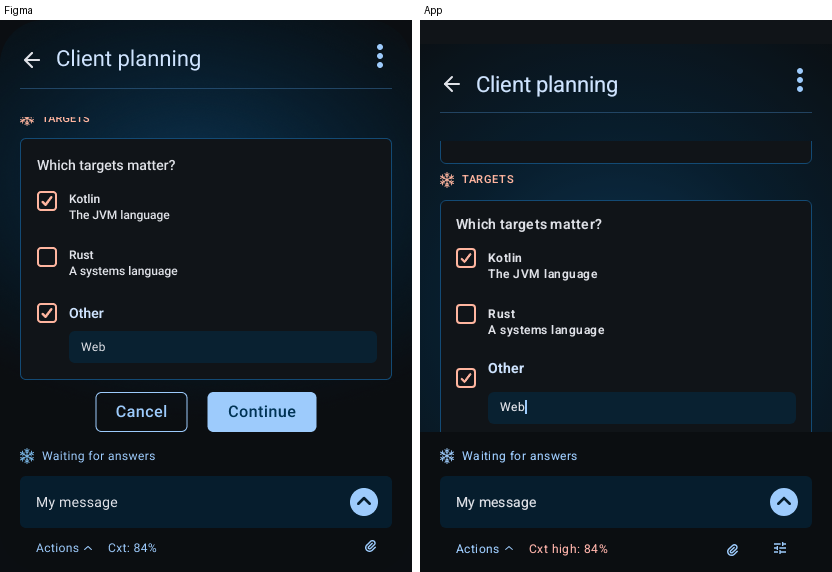
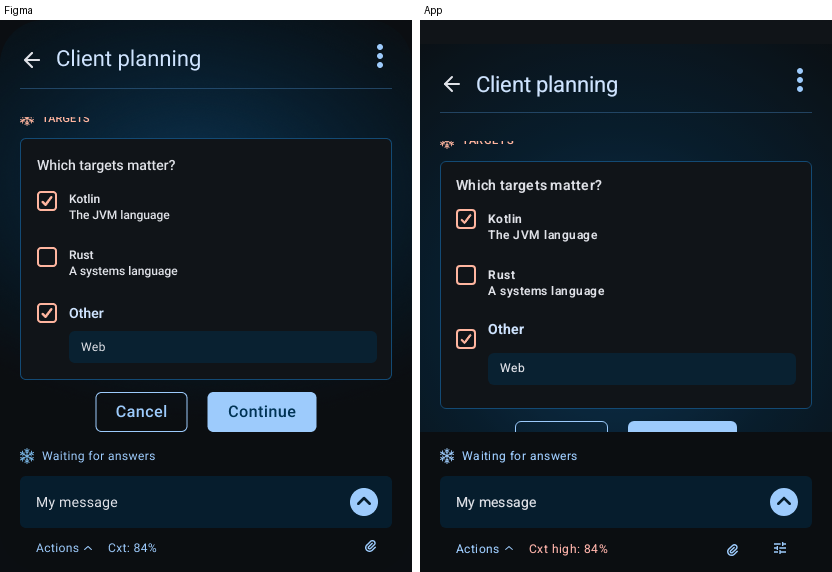
test(design): route the compact title and list waiting marks, re-run prompt captures (#1433)

Changed region(s): [[0.5312, 0.2378, 0.9688, 0.7727]]

diff --git a/app/src/androidTest/assets/design-1220/prompts/index.md b/app/src/androidTest/assets/design-1220/prompts/index.md
@@ -9,8 +9,8 @@
 - **Capture:** `PromptsDesignCaptureTest` on the full `pixel8Api35` image (API 35) with
   `requireRealSystemBars=true`, density 1.0, fixed dark theme, real 24 px status and navigation bars. Each `.txt`
   records the measured values.
-- **Result:** `prompts-results.xml`, the whole class in one run: 6 executed, 0 failures. Every capture here
-  comes from that run.
+- **Result:** `prompts-results.xml`, the whole class in one run after the second rework: 6 executed, 0 failures.
+  Every capture here comes from that run.
 
 **How these captures differ from onboarding's.** Both prompts set `FLAG_SECURE` on the activity window while
 they show, which blacks out the harness's `UiAutomation` screenshot. The class draws the decor view into a
@@ -31,13 +31,19 @@ Typography, Colour and Icon paths and routes it to #1485, which holds the design
 sits 24 px lower than Figma's. As in the onboarding audit, that move is not a mismatch; everything else is
 compared at 1:1.
 
-**Platform text scaling.** At 150 % Android 14+ scales large text non-linearly, so the top bar title grows
-less than in Figma's linear 150 % frames (`636:4066`, `639:3308`). That is the platform, not the app.
+**Top-bar title at 150 %.** In both compact frames (`636:4066`, `639:3308`) the title "Client planning" is
+about 26 px from cap to descender in the app and about 34 px in Figma. Android 14+ scales large text
+non-linearly, which likely explains it, but the board then draws something the platform cannot render. It is a
+mismatch in both items, routed to #1501, which decides whether the board's compact frames show platform
+scaling or the app matches the frames.
 
 ### Questions · Unanswered — `636:3279`
 
 - **Owning ticket:** #1305 (inline questions), #1299 (question components)
-- **Capture:** `question-unanswered.png` (412x892, 1.0) · **Side-by-side:** `question-unanswered-side-by-side.png` · **Overlay:** `question-unanswered-overlay.png`
+- **Capture:** `question-unanswered.png` (412x892, 1.0)
+- **Side-by-side:** `question-unanswered-side-by-side.png`
+- **Overlay:** `question-unanswered-overlay.png`
+- **Verdict:**
 
 | Aspect | Verdict |
 |---|---|
@@ -56,7 +62,10 @@ less than in Figma's linear 150 % frames (`636:4066`, `639:3308`). That is the p
 ### Questions · Answers selected — `636:3540`
 
 - **Owning ticket:** #1305, #1299
-- **Capture:** `question-answered.png` (412x892, 1.0) · **Side-by-side:** `question-answered-side-by-side.png` · **Overlay:** `question-answered-overlay.png`
+- **Capture:** `question-answered.png` (412x892, 1.0)
+- **Side-by-side:** `question-answered-side-by-side.png`
+- **Overlay:** `question-answered-overlay.png`
+- **Verdict:**
 
 | Aspect | Verdict |
 |---|---|
@@ -75,13 +84,17 @@ less than in Figma's linear 150 % frames (`636:4066`, `639:3308`). That is the p
 ### Questions · Other and keyboard — `636:3803`
 
 - **Owning ticket:** #1305
-- **Capture:** `question-keyboard.png` (412x792 window, 240 px test keyboard, 412x552 app area, 1.0) · **Side-by-side:** `question-keyboard-side-by-side.png` · **Overlay:** `question-keyboard-overlay.png`
+- **Capture:** `question-keyboard.png` (412x792 window, 240 px test keyboard, 412x552 app area, 1.0)
+- **Side-by-side:** `question-keyboard-side-by-side.png`
+- **Overlay:** `question-keyboard-overlay.png`
 - The test IME is 240 px and the frame's keyboard is 340 px, so the window is 792 px tall and the app has the
-  frame's 552 px above the keyboard. The capture is cropped at the keyboard's top.
+  frame's 552 px above the keyboard. The capture is cropped at the keyboard's top. The test asserts the 240 px
+  inset, and the `.txt` records the keyboard that showed: one run of this rework drew a 332 px keyboard.
+- **Verdict:**
 
 | Aspect | Verdict |
 |---|---|
-| Geometry | mismatch: the focused Other field is in view, but Cancel and Continue are hidden under the composer footer; Figma shows both above "Waiting for answers". The first pass found them half under; the focus scroll offset varies, and both runs hide them |
+| Geometry | mismatch: the focused Other field is in view, but Cancel and Continue are half under the composer footer; Figma shows both above "Waiting for answers". The focus scroll offset varies between runs: the first and this run leave them half under, the first rework run hid them fully. Every run covers them |
 | Padding | match |
 | Spacing | mismatch: the actions have no gap above the footer (see Geometry); the Other row as Unanswered |
 | Typography | mismatch: footer "Cxt high: 84%" |
@@ -89,7 +102,7 @@ less than in Figma's linear 150 % frames (`636:4066`, `639:3308`). That is the p
 | Borders | match |
 | Radii | match |
 | Icon paths | mismatch: footer tune icon |
-| Component state | match: Other focused with "Web" and the caret; the draft is kept |
+| Component state | match: Other focused with "Web" (the caret blinks and is in its off phase in this capture); the draft is kept |
 
 - **Clipping and reach:** Cancel and Continue are covered by the footer at the focus scroll position. Both
   scroll into view and display with the keyboard still open (`reachable` in the test). No control is unreachable.
@@ -98,14 +111,17 @@ less than in Figma's linear 150 % frames (`636:4066`, `639:3308`). That is the p
 ### Questions · Compact text at 150% — `636:4066`
 
 - **Owning ticket:** #1305
-- **Capture:** `question-compact.png` (320x700, 1.5) · **Side-by-side:** `question-compact-side-by-side.png` · **Overlay:** `question-compact-overlay.png`
+- **Capture:** `question-compact.png` (320x700, 1.5)
+- **Side-by-side:** `question-compact-side-by-side.png`
+- **Overlay:** `question-compact-overlay.png`
+- **Verdict:**
 
 | Aspect | Verdict |
 |---|---|
 | Geometry | mismatch: Cancel and Continue stack, but centred, where Figma stacks them at the card's start edge. Figma's Cancel and Continue are 52 px tall (118 and 143.5 px wide); the app's are about 42 px |
 | Padding | match |
 | Spacing | mismatch: the Other row, as Unanswered |
-| Typography | mismatch: the action labels are smaller than the frame's linear 150 %, and the footer reads "Cxt h…". Every label wraps; the top bar title is smaller because of platform scaling (see above) |
+| Typography | mismatch: the top-bar title is about 26 px against Figma's 34 px (see "Top-bar title at 150 %"); the action labels are smaller than the frame's linear 150 %; the footer reads "Cxt h…". Every label wraps |
 | Colour | mismatch: footer warning colour |
 | Borders | match |
 | Radii | match |
@@ -114,12 +130,15 @@ less than in Figma's linear 150 % frames (`636:4066`, `639:3308`). That is the p
 
 - **Clipping and reach:** the footer's context label truncates to "Cxt h…". The title, both questions, Cancel
   and Continue each scroll into view and display.
-- **Routed:** #1484 (stacked action alignment), #1501 (button heights, Other row), #1485 (footer, truncation)
+- **Routed:** #1484 (stacked action alignment), #1501 (button heights and their smaller labels, the top-bar title, Other row), #1485 (footer, truncation)
 
 ### Permission · Safe default — `639:2242`
 
 - **Owning ticket:** #1306 (inline permissions), #1300 (permission components)
-- **Capture:** `permission-safe-default.png` (412x892, 1.0) · **Side-by-side:** `permission-safe-default-side-by-side.png` · **Overlay:** `permission-safe-default-overlay.png`
+- **Capture:** `permission-safe-default.png` (412x892, 1.0)
+- **Side-by-side:** `permission-safe-default-side-by-side.png`
+- **Overlay:** `permission-safe-default-overlay.png`
+- **Verdict:**
 
 | Aspect | Verdict |
 |---|---|
@@ -138,7 +157,10 @@ less than in Figma's linear 150 % frames (`636:4066`, `639:3308`). That is the p
 ### Permission · Session grant offered — `639:2451`
 
 - **Owning ticket:** #1306, #818 (session grant)
-- **Capture:** `permission-grant-offered.png` (412x892, 1.0) · **Side-by-side:** `permission-grant-offered-side-by-side.png` · **Overlay:** `permission-grant-offered-overlay.png`
+- **Capture:** `permission-grant-offered.png` (412x892, 1.0)
+- **Side-by-side:** `permission-grant-offered-side-by-side.png`
+- **Overlay:** `permission-grant-offered-overlay.png`
+- **Verdict:**
 
 | Aspect | Verdict |
 |---|---|
@@ -157,7 +179,10 @@ less than in Figma's linear 150 % frames (`636:4066`, `639:3308`). That is the p
 ### Permission · Session grant selected — `639:2666`
 
 - **Owning ticket:** #1306, #818
-- **Capture:** `permission-grant-selected.png` (412x892, 1.0) · **Side-by-side:** `permission-grant-selected-side-by-side.png` · **Overlay:** `permission-grant-selected-overlay.png`
+- **Capture:** `permission-grant-selected.png` (412x892, 1.0)
+- **Side-by-side:** `permission-grant-selected-side-by-side.png`
+- **Overlay:** `permission-grant-selected-overlay.png`
+- **Verdict:**
 
 | Aspect | Verdict |
 |---|---|
@@ -176,7 +201,10 @@ less than in Figma's linear 150 % frames (`636:4066`, `639:3308`). That is the p
 ### Permission · Confirm Allow once (armed) — `639:2882`
 
 - **Owning ticket:** #1306, #451 (arm then confirm)
-- **Capture:** `permission-armed.png` (412x892, 1.0) · **Side-by-side:** `permission-armed-side-by-side.png` · **Overlay:** `permission-armed-overlay.png`
+- **Capture:** `permission-armed.png` (412x892, 1.0)
+- **Side-by-side:** `permission-armed-side-by-side.png`
+- **Overlay:** `permission-armed-overlay.png`
+- **Verdict:**
 
 | Aspect | Verdict |
 |---|---|
@@ -195,7 +223,10 @@ less than in Figma's linear 150 % frames (`636:4066`, `639:3308`). That is the p
 ### Trust · Safe default — `639:3099`
 
 - **Owning ticket:** #1306
-- **Capture:** `trust-safe-default.png` (412x892, 1.0) · **Side-by-side:** `trust-safe-default-side-by-side.png` · **Overlay:** `trust-safe-default-overlay.png`
+- **Capture:** `trust-safe-default.png` (412x892, 1.0)
+- **Side-by-side:** `trust-safe-default-side-by-side.png`
+- **Overlay:** `trust-safe-default-overlay.png`
+- **Verdict:**
 
 | Aspect | Verdict |
 |---|---|
@@ -214,14 +245,17 @@ less than in Figma's linear 150 % frames (`636:4066`, `639:3308`). That is the p
 ### Permission · Compact text at 150% — `639:3308`
 
 - **Owning ticket:** #1306
-- **Capture:** `permission-compact.png` (320x700, 1.5) · **Side-by-side:** `permission-compact-side-by-side.png` · **Overlay:** `permission-compact-overlay.png`
+- **Capture:** `permission-compact.png` (320x700, 1.5)
+- **Side-by-side:** `permission-compact-side-by-side.png`
+- **Overlay:** `permission-compact-overlay.png`
+- **Verdict:**
 
 | Aspect | Verdict |
 |---|---|
 | Geometry | mismatch: "Permission required" sits above the card instead of inside it as the first line; Cancel is centred where Figma start-aligns it. Figma's Allow once, Reject once and Cancel are 52 px tall (Cancel 118 px wide); the app's are about 42 px |
 | Padding | match |
 | Spacing | mismatch: no confirm hint under the armed choice, which sits about 14 px above Reject once; context block as Safe default |
-| Typography | mismatch: "Blocked path" label; the button labels are smaller than the frame's linear 150 %; footer "Cxt h…". Every label wraps |
+| Typography | mismatch: the top-bar title is about 26 px against Figma's 34 px (see "Top-bar title at 150 %"); "Blocked path" label; the button labels are smaller than the frame's linear 150 %; footer "Cxt h…". Every label wraps |
 | Colour | mismatch: footer warning colour |
 | Borders | match |
 | Radii | match |
@@ -230,35 +264,46 @@ less than in Figma's linear 150 % frames (`636:4066`, `639:3308`). That is the p
 
 - **Clipping and reach:** the footer's context label truncates to "Cxt h…". The title, prompt, grant, both
   choices and Cancel each scroll into view and display.
-- **Routed:** #1483 (title, Cancel, hint, label, status text), #1501 (button heights, context spacing), #1485 (footer, truncation)
+- **Routed:** #1483 (title, Cancel, hint, label, status text), #1501 (button heights and their smaller labels, the top-bar title, context spacing), #1485 (footer, truncation)
 
 ### Switch chats while prompts wait — `640:2437`
 
-- **Owning ticket:** #1305, #1306, #1338 (list waiting marks)
-- **Captures:** each at (412x892, 1.0): `switch-question-chat.png` (question in "Client planning"),
-  `switch-list.png` against `640:2440`, `switch-other-chat.png` against `640:2646` with the keyboard closed,
-  and `switch-permission-chat.png` (permission in "kitchenclaw refactor"). Side-by-side and overlay for the
-  list and the other chat.
+- **Owning ticket:** #1305, #1306, #1338 (list waiting marks), #1337 (grant draft per conversation)
+- **Capture:** `switch-list.png` against `640:2440` (412x892, 1.0); `switch-other-chat.png` against `640:2646`,
+  keyboard closed (412x892, 1.0); `switch-question-chat.png`, the question in "Client planning" (412x892, 1.0);
+  `switch-permission-chat.png`, the permission in "kitchenclaw refactor" (412x892, 1.0)
+- **Side-by-side:** `switch-list-side-by-side.png`, `switch-other-chat-side-by-side.png`
+- **Overlay:** `switch-list-overlay.png`, `switch-other-chat-overlay.png`
 - `promptsWaitInTheirOwnChats` holds a question for "Client planning" and a permission for "kitchenclaw refactor"
   at once. Each chat shows only its own prompt, asserted on the view model's `questionModal` and
   `currentModal`. "Release notes" shows neither and takes a draft typed through the keyboard, which is closed
   again before the capture. Back on "Client planning" the question is still there.
 - `640:2646` draws "Release notes" with an earlier message and a "Ready" status line. The harness channel is
   empty, so the app shows its empty state. The thread surface itself is #1432's audit.
-- `640:2440` is the full channel tree with servers and folders; the list surface itself is #1431's audit, so
-  this item judges only that the list stays usable and each prompt stays in its chat.
-- **List waiting marks are not judged here.** The override feeds prompts to the thread's view model only; the
-  list reads waiting state from the host coordinator, so both chats show as idle in `switch-list.png`. #1338's
-  own tests cover the marks.
-- **Question drafts across chats are not judged here.** The harness override passes no question draft store
-  (`DesignInputs`), so each thread opening builds a fresh one. Production binds the host's shared store, which
-  #1305 covers in unit tests.
+- `640:2440` is the full channel tree with servers and folders. #1431 audits Channel List `15:8`, not this
+  frame, so this item judges that the list stays usable while both prompts wait, and the waiting marks below.
+- **Specification `640:2838`, asserted on the view models:**
+  - Item 3, switching away clears the arm: Allow once is armed in "kitchenclaw refactor", the test leaves for
+    "Release notes" and returns, and `armedOptionId` is null with the permission still shown.
+  - Composer drafts stay with their chat: back in "Release notes" the draft is "Release notes draft", and back
+    in "Client planning" it is still "My message". Neither is set again on return.
+- **Not judged here, with the reason and the owner:**
+  - **List waiting marks.** `640:2440` draws "Client planning" with a filled status dot and the other rows
+    hollow. The harness feeds prompts to the thread's view model only, and the list reads
+    `ConversationAttention` from the host source, so every row in `switch-list.png` is idle. Routed to #1507,
+    a harness input and a capture against `640:2440`.
+  - **Item 4, the session-grant checkbox kept across chats.** The override passes no `PermissionDraftStore`
+    (`DesignInputs`), so each thread opening builds a fresh one and a ticked grant cannot survive the switch in
+    the harness. Production binds the shared store; #1337 owns it and covers it in unit tests.
+  - **Question drafts across chats.** The override passes no question draft store either, so each thread
+    opening builds a fresh one. Production binds the host's shared store, which #1305 covers in unit tests.
+- **Verdict:**
 
 | Aspect | Verdict |
 |---|---|
-| Component state | match: each prompt inside its own conversation; the list and another chat open and usable while both wait |
+| Component state | match for what is judged: each prompt inside its own conversation, the list and another chat open and usable while both wait, the arm cleared on return and composer drafts kept. Not judged: the list's waiting marks (every row idle in the capture, against the filled dot in `640:2440`), the grant draft and question drafts across chats, as listed above |
 
-- **Routed:** none from this item; the list surface is audited by #1431
+- **Routed:** #1507 (list waiting marks against `640:2440`)
 
 ## Gaps
 
